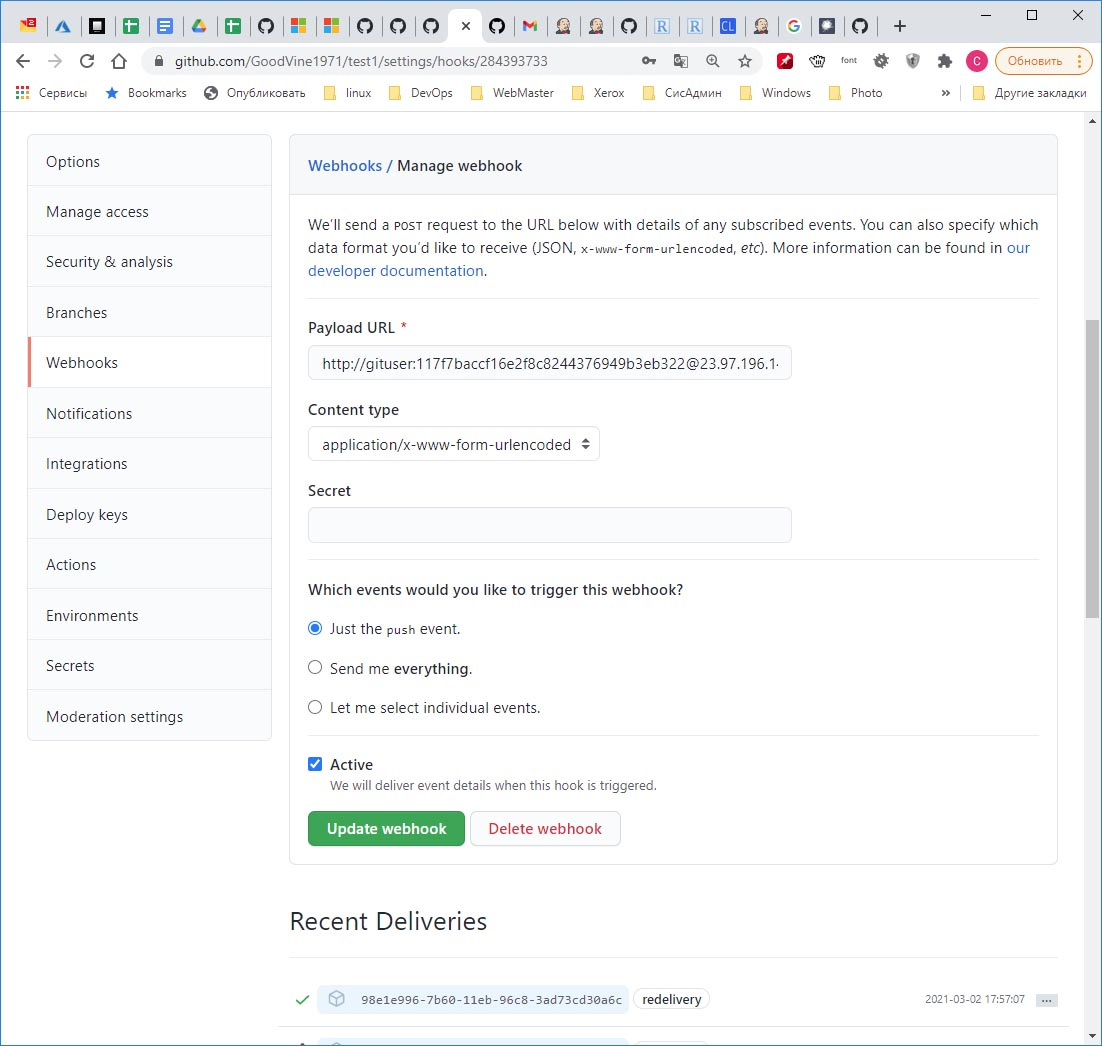
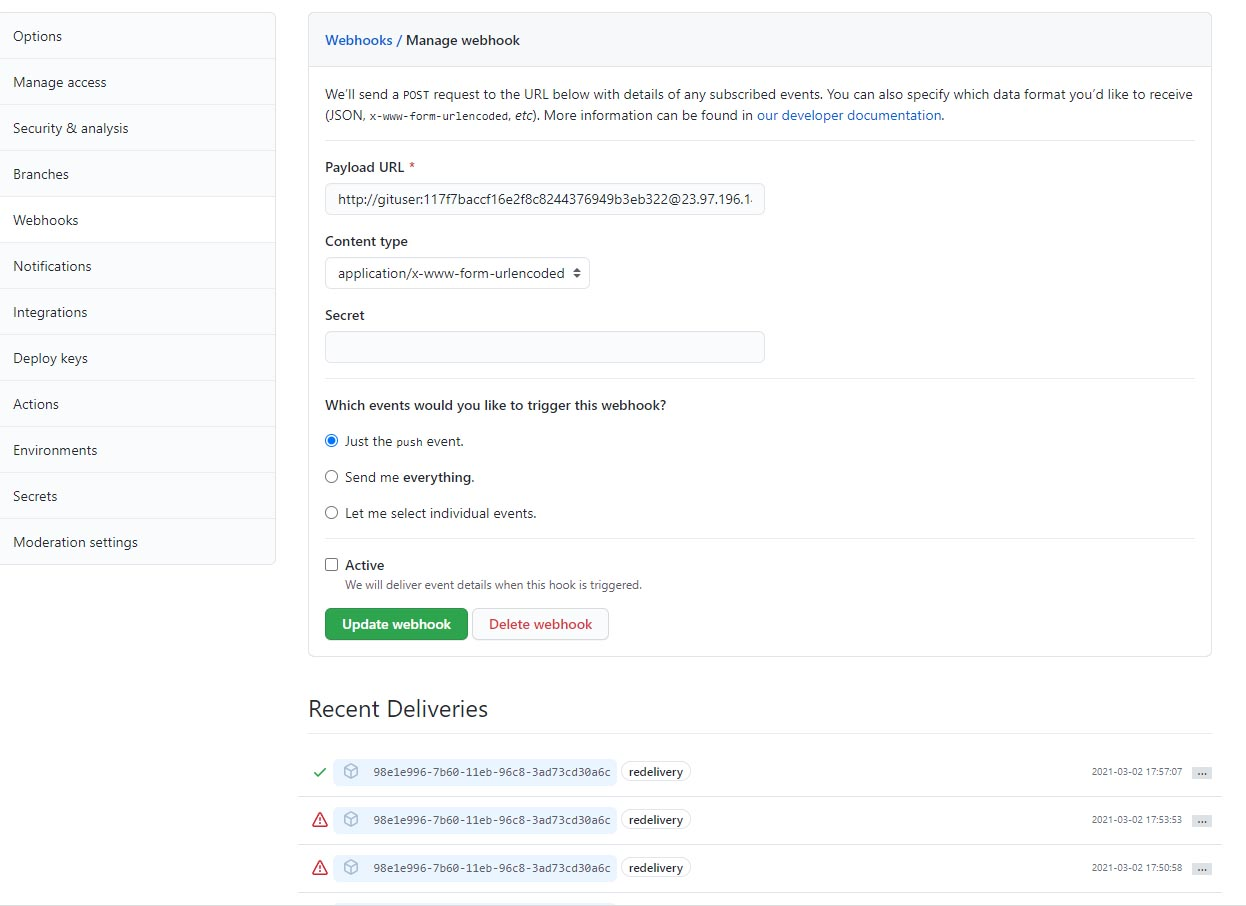
add task7

diff --git a/task7/ReadMe.md b/task7/ReadMe.md
@@ -171,59 +171,69 @@ mv -f frontend/* frontend/.[^.]* . && rmdir frontend/
 В настройках pipeline отмечаем: GitHub hook trigger for GITScm polling
 В webhook вносим 
 http://23.97.196.147:8080/github-webhook/ .
-Не сработало
-Попробуем использовать Trigger builds remotely
+Не сработало. Попробуем использовать Trigger builds remotely  
 Добавили Authentication Token: triggerFrontBuild
 и изменили  webhook на git 
 http://23.97.196.147:8080/job/frontend/build?token=triggerFrontBuild
 
-Создадми пользователя gituser в jenkins
+Создадми пользователя gituser в jenkins  
 
 В webhook вносим: 
 
-http://gituser:password@23.97.196.147:8080/job/frontend/build?token=triggerFrontBuild
- Через пароль не работает . Добавляем API token в настройках пользователя gituser
+http://gituser:password@23.97.196.147:8080/job/frontend/build?token=triggerFrontBuild  
+
+Через пароль не работает . Добавляем API token в настройках пользователя gituser
  
- ![Токен gituser:](./images/gituser.jpg)
+![Токен gituser:](./images/gituser.jpg)
 
 http://gituser:117f7baccf16e2f8c82443XXXXXXXXX@23.97.196.147:8080/job/frontend/build?token=triggerFrontBuild
 
 Так работает.
  
+![webhook:](./images/webhook.jpg) 
  
- Если происходит много commit, то  может возникнуть большая нагрузка, для этого вместо webhook использовать poll SCM
- Расписание:  H */3 * * *   (каждые 3 часа, Р вместо 0, чтобы не запускалось в 3:00, 6:00, а произвольное время, н-р 3:21
+ Если происходит много commit, то  может возникнуть большая нагрузка, для этого вместо webhook использовать poll SCM  
+ Расписание:  H */3 * * *   (каждые 3 часа, H вместо 0, чтобы не запускалось в 3:00, 6:00, а произвольное время, н-р 3:21
  
  
 ++++++++++++++++++++++++++++++++++
 
 
-# Container Registry
-https://docs.microsoft.com/ru-ru/azure/container-registry/container-registry-tutorial-prepare-registry
+### Container Registry
 
-Сначала нужно установить Azure CLI : https://docs.microsoft.com/ru-ru/cli/azure/install-azure-cli
+Для отправки готовых образов контейнеров в registry воспользуемся руководством: 
+https://docs.microsoft.com/ru-ru/azure/container-registry/container-registry-tutorial-prepare-registry  
+  
+Сначала нужно установить Azure CLI как указано здесь: https://docs.microsoft.com/ru-ru/cli/azure/install-azure-cli  
 
+Воспользуемся установкой  Azure CLI в docker контейнере  
 
-Открываем https://microsoft.com/devicelogin   или https://aka.ms/devicelogin вводим полученный код: C4WVU56WC 
+Создаем Реестр GoodVine  контейнеров Azure  нашей Resource Group.  (GoodVone_RG)  
 
-Создаем Реестр GoodVine  контейнеров Azure  нашей Resource Group.  (GoodVone_RG)
+Перейдем в новый реестр контейнеров на портале Azure и в разделе Параметры выберем Ключи доступа. В разделе Пользователь-администратор выберем Включить.  
 
-Перейдите в новый реестр контейнеров на портале Azure и в разделе Параметры выберите Ключи доступа. В разделе Пользователь-администратор выберите Включить
+###### Запуск контейнера с Azure CLI
 
-Запуск контейнера с Azure CLI 
+docker run --rm -it  -v /var/run/docker.sock:/var/run/docker.sock  mcr.microsoft.com/azure-cli  /bin/bash
+здесь --rm, чтобы Docker автоматически очищал контейнер и удалял файловую систему при выходе из контейнера
 
-docker run --rm -it  -v /var/run/docker.sock:/var/run/docker.sock  mcr.microsoft.com/azure-cli   здесь --rm, чтобы Docker автоматически очищал контейнер и удалял файловую систему при выходе из контейнера
-
-Затем? чтобы можно было работать с image на хосте:
+Затем, чтобы можно было работать с image на хосте добавим в терминале нашего контейнера:
+```sh
 apk --no-cache add docker
+```
 
-Теперь пользоваться docker из контейнера (н-р docker image - все образы на хосте)
+Теперь можно пользоваться docker'ом из контейнера (н-р docker image - все образы на хосте)
 
-Входим: az login
-Открываем https://microsoft.com/devicelogin   или https://aka.ms/devicelogin вводим полученный код: C4WVU56WC 
+В терминале вводим
+```sh
+az login  
+``` 
+Открываем в браузере https://microsoft.com/devicelogin   или https://aka.ms/devicelogin вводим полученный код: C4WVU56WC 
 
 Входим в реестр:
+```sh
 az acr login --name goodvine   
+```
 _______________________________
 
 
